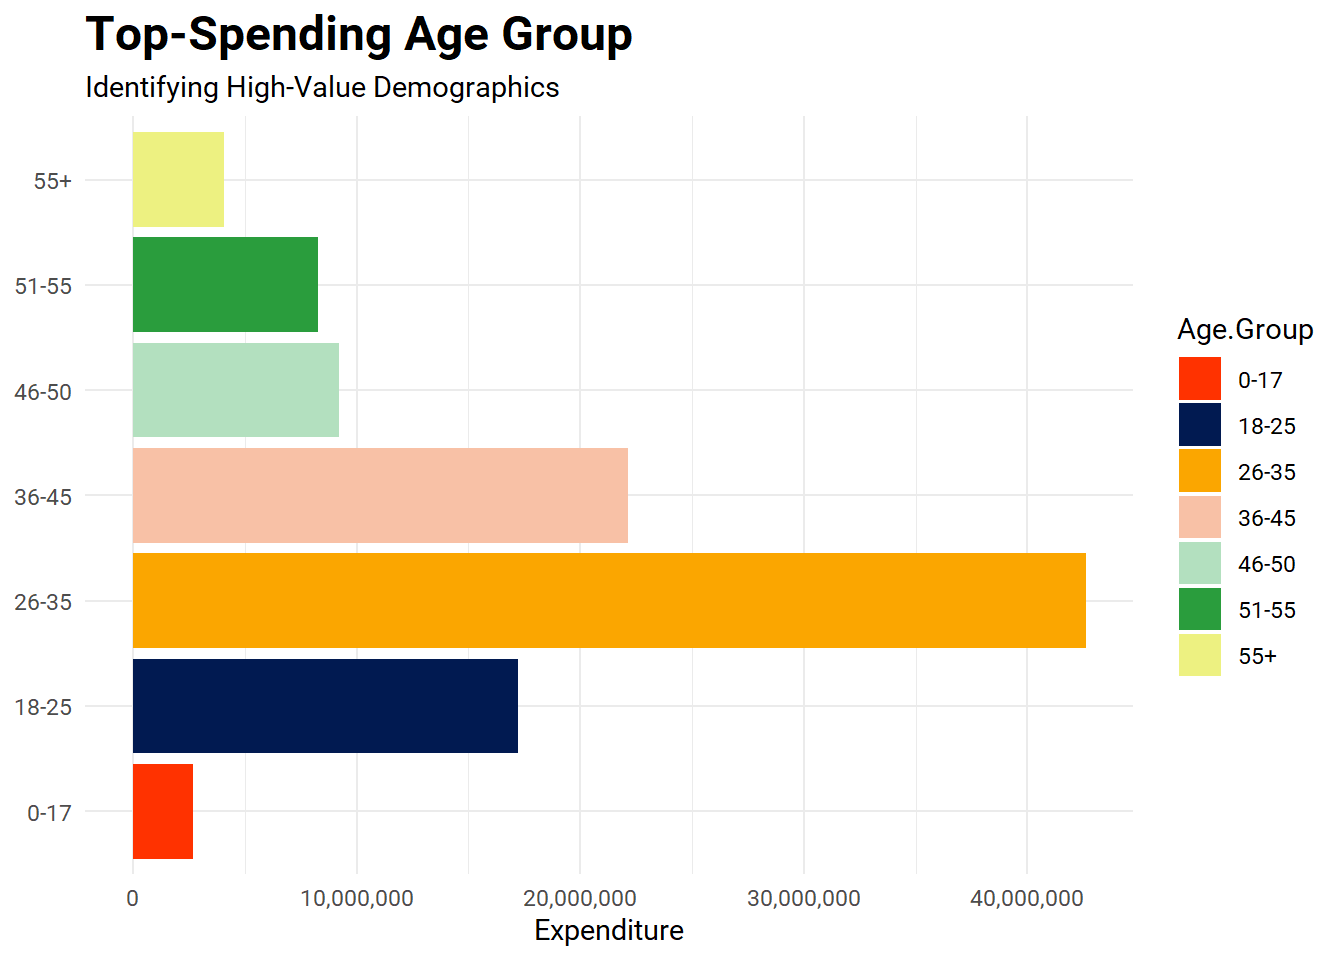
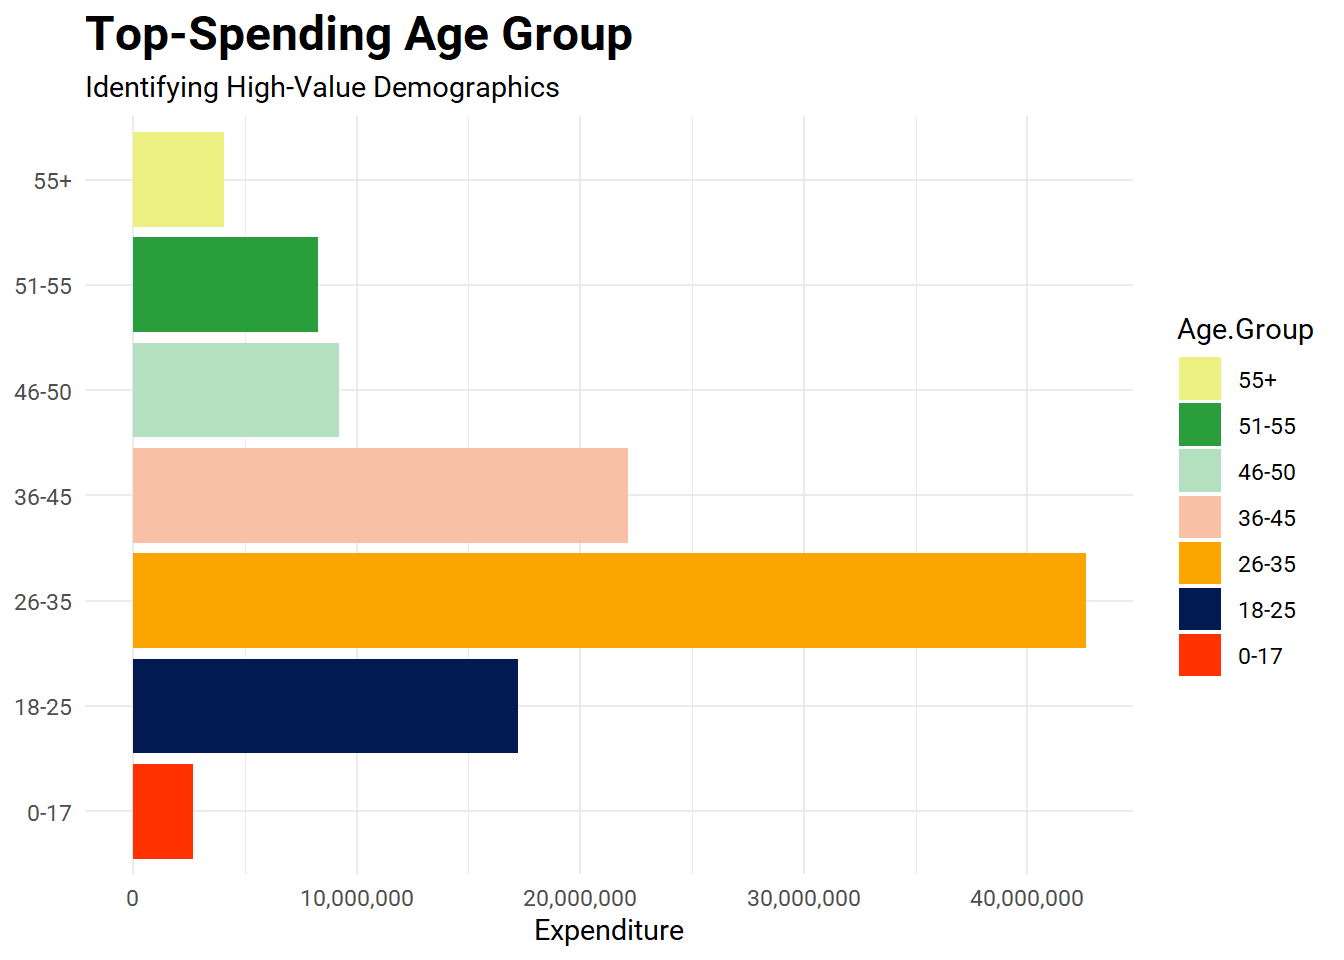
fixed legend

Changed region(s): [[0.875, 0.5625, 0.9688, 0.7188], [0.875, 0.375, 0.9688, 0.5312]]

diff --git a/public/portfolio/diwali-sales/diwali_sales/index.html b/public/portfolio/diwali-sales/diwali_sales/index.html
@@ -48,7 +48,7 @@ Age Group Spending:" />
   <meta itemprop="description" content="Exploring Diwali Sales Data Context The Diwali Sales dataset, featured in the TidyTuesday project for the week of November 14, 2023, provides a comprehensive look at retail sales during the Diwali festival in India. It offers a detailed snapshot of consumer behavior during one of the most significant festive periods in India. Key Business Questions Which age group spends the most during Diwali? How does expenditure vary across genders within each age group? What are the common occupations of individuals in the highest spending age group? Which states have the highest spending, and how does this vary by gender? How does marital status influence spending patterns across different states and genders? Insights and Trends Age Group Spending:">
   <meta itemprop="datePublished" content="2024-10-29T00:00:00+00:00">
   <meta itemprop="dateModified" content="2024-11-04T09:46:21+00:00">
-  <meta itemprop="wordCount" content="1248">
+  <meta itemprop="wordCount" content="1278">
   <meta itemprop="image" content="http://localhost:4321/portfolio/Diwali%20Sales/diwali_sales_files/figure-html/unnamed-chunk-4-1.png">
   <meta itemprop="keywords" content="Markdown,Data Analysis,R">
   <meta name="twitter:card" content="summary_large_image">
@@ -374,16 +374,18 @@ Age Group Spending:" />
 </ul>
 </li>
 </ol>
-</br>
-</br>
+<br/>
+<br/>
 <hr>
-</br>
+<br/>
 <div class="hextra-code-block hx-relative hx-mt-6 first:hx-mt-0 hx-group/code">
   
 
 <div><div class="highlight"><pre tabindex="0" class="chroma"><code class="language-r" data-lang="r"><span class="line"><span class="cl"><span class="nf">library</span><span class="p">(</span><span class="n">extrafont</span><span class="p">)</span>
 </span></span><span class="line"><span class="cl"><span class="nf">library</span><span class="p">(</span><span class="n">tidyverse</span><span class="p">)</span>
-</span></span><span class="line"><span class="cl"><span class="nf">library</span><span class="p">(</span><span class="n">scales</span><span class="p">)</span> </span></span></code></pre></div></div><div class="hextra-code-copy-btn-container hx-opacity-0 hx-transition group-hover/code:hx-opacity-100 hx-flex hx-gap-1 hx-absolute hx-m-[11px] hx-right-0 hx-top-0">
+</span></span><span class="line"><span class="cl"><span class="nf">library</span><span class="p">(</span><span class="n">scales</span><span class="p">)</span> 
+</span></span><span class="line"><span class="cl">
+</span></span><span class="line"><span class="cl"><span class="nf">loadfonts</span><span class="p">(</span><span class="n">device</span> <span class="o">=</span> <span class="s">&#34;win&#34;</span><span class="p">)</span></span></span></code></pre></div></div><div class="hextra-code-copy-btn-container hx-opacity-0 hx-transition group-hover/code:hx-opacity-100 hx-flex hx-gap-1 hx-absolute hx-m-[11px] hx-right-0 hx-top-0">
   <button
     class="hextra-code-copy-btn hx-group/copybtn hx-transition-all active:hx-opacity-50 hx-bg-primary-700/5 hx-border hx-border-black/5 hx-text-gray-600 hover:hx-text-gray-900 hx-rounded-md hx-p-1.5 dark:hx-bg-primary-300/10 dark:hx-border-white/10 dark:hx-text-gray-400 dark:hover:hx-text-gray-50"
     title="Copy code"
@@ -398,9 +400,7 @@ Age Group Spending:" />
 <div class="hextra-code-block hx-relative hx-mt-6 first:hx-mt-0 hx-group/code">
   
 
-<div><div class="highlight"><pre tabindex="0" class="chroma"><code class="language-r" data-lang="r"><span class="line"><span class="cl"><span class="nf">loadfonts</span><span class="p">(</span><span class="n">device</span> <span class="o">=</span> <span class="s">&#34;win&#34;</span><span class="p">)</span>
-</span></span><span class="line"><span class="cl">
-</span></span><span class="line"><span class="cl"><span class="nf">theme_set</span><span class="p">(</span>
+<div><div class="highlight"><pre tabindex="0" class="chroma"><code class="language-r" data-lang="r"><span class="line"><span class="cl"><span class="nf">theme_set</span><span class="p">(</span>
 </span></span><span class="line"><span class="cl">    <span class="nf">theme_minimal</span><span class="p">()</span> <span class="o">+</span>
 </span></span><span class="line"><span class="cl">    <span class="nf">theme</span><span class="p">(</span><span class="n">text</span> <span class="o">=</span> <span class="nf">element_text</span><span class="p">(</span><span class="n">family</span> <span class="o">=</span> <span class="s">&#34;Roboto&#34;</span><span class="p">))</span>
 </span></span><span class="line"><span class="cl">    <span class="p">)</span>
@@ -550,6 +550,7 @@ Age Group Spending:" />
 </span></span><span class="line"><span class="cl">            <span class="p">)</span> <span class="o">+</span>
 </span></span><span class="line"><span class="cl">    <span class="nf">theme</span><span class="p">(</span><span class="n">plot.title</span> <span class="o">=</span> <span class="nf">element_text</span><span class="p">(</span><span class="n">size</span> <span class="o">=</span> <span class="m">18</span><span class="p">,</span> <span class="n">face</span> <span class="o">=</span> <span class="s">&#34;bold&#34;</span><span class="p">))</span> <span class="o">+</span>
 </span></span><span class="line"><span class="cl">    <span class="nf">scale_y_continuous</span><span class="p">(</span><span class="n">labels</span> <span class="o">=</span> <span class="n">comma</span><span class="p">)</span> <span class="o">+</span>
+</span></span><span class="line"><span class="cl">    <span class="nf">guides</span><span class="p">(</span><span class="n">fill</span> <span class="o">=</span> <span class="nf">guide_legend</span><span class="p">(</span><span class="n">reverse</span> <span class="o">=</span> <span class="kc">TRUE</span><span class="p">))</span> <span class="o">+</span>
 </span></span><span class="line"><span class="cl">    <span class="nf">coord_flip</span><span class="p">()</span></span></span></code></pre></div></div><div class="hextra-code-copy-btn-container hx-opacity-0 hx-transition group-hover/code:hx-opacity-100 hx-flex hx-gap-1 hx-absolute hx-m-[11px] hx-right-0 hx-top-0">
   <button
     class="hextra-code-copy-btn hx-group/copybtn hx-transition-all active:hx-opacity-50 hx-bg-primary-700/5 hx-border hx-border-black/5 hx-text-gray-600 hover:hx-text-gray-900 hx-rounded-md hx-p-1.5 dark:hx-bg-primary-300/10 dark:hx-border-white/10 dark:hx-text-gray-400 dark:hover:hx-text-gray-50"
@@ -585,6 +586,7 @@ Age Group Spending:" />
 </span></span><span class="line"><span class="cl">            <span class="p">)</span> <span class="o">+</span>
 </span></span><span class="line"><span class="cl">    <span class="nf">theme</span><span class="p">(</span><span class="n">plot.title</span> <span class="o">=</span> <span class="nf">element_text</span><span class="p">(</span><span class="n">size</span> <span class="o">=</span> <span class="m">18</span><span class="p">,</span> <span class="n">face</span> <span class="o">=</span> <span class="s">&#34;bold&#34;</span><span class="p">))</span> <span class="o">+</span>
 </span></span><span class="line"><span class="cl">    <span class="nf">scale_y_continuous</span><span class="p">(</span><span class="n">labels</span> <span class="o">=</span> <span class="n">comma</span><span class="p">)</span> <span class="o">+</span>
+</span></span><span class="line"><span class="cl">    <span class="nf">guides</span><span class="p">(</span><span class="n">fill</span> <span class="o">=</span> <span class="nf">guide_legend</span><span class="p">(</span><span class="n">reverse</span> <span class="o">=</span> <span class="kc">TRUE</span><span class="p">))</span> <span class="o">+</span>
 </span></span><span class="line"><span class="cl">    <span class="nf">coord_flip</span><span class="p">()</span></span></span></code></pre></div></div><div class="hextra-code-copy-btn-container hx-opacity-0 hx-transition group-hover/code:hx-opacity-100 hx-flex hx-gap-1 hx-absolute hx-m-[11px] hx-right-0 hx-top-0">
   <button
     class="hextra-code-copy-btn hx-group/copybtn hx-transition-all active:hx-opacity-50 hx-bg-primary-700/5 hx-border hx-border-black/5 hx-text-gray-600 hover:hx-text-gray-900 hx-rounded-md hx-p-1.5 dark:hx-bg-primary-300/10 dark:hx-border-white/10 dark:hx-text-gray-400 dark:hover:hx-text-gray-50"
@@ -620,6 +622,7 @@ Age Group Spending:" />
 </span></span><span class="line"><span class="cl">            <span class="p">)</span> <span class="o">+</span>
 </span></span><span class="line"><span class="cl">    <span class="nf">theme</span><span class="p">(</span><span class="n">plot.title</span> <span class="o">=</span> <span class="nf">element_text</span><span class="p">(</span><span class="n">size</span> <span class="o">=</span> <span class="m">18</span><span class="p">,</span> <span class="n">face</span> <span class="o">=</span> <span class="s">&#34;bold&#34;</span><span class="p">))</span> <span class="o">+</span>
 </span></span><span class="line"><span class="cl">    <span class="nf">scale_y_continuous</span><span class="p">(</span><span class="n">labels</span> <span class="o">=</span> <span class="n">comma</span><span class="p">)</span> <span class="o">+</span>
+</span></span><span class="line"><span class="cl">    <span class="nf">guides</span><span class="p">(</span><span class="n">fill</span> <span class="o">=</span> <span class="nf">guide_legend</span><span class="p">(</span><span class="n">reverse</span> <span class="o">=</span> <span class="kc">TRUE</span><span class="p">))</span> <span class="o">+</span>
 </span></span><span class="line"><span class="cl">    <span class="nf">coord_flip</span><span class="p">()</span></span></span></code></pre></div></div><div class="hextra-code-copy-btn-container hx-opacity-0 hx-transition group-hover/code:hx-opacity-100 hx-flex hx-gap-1 hx-absolute hx-m-[11px] hx-right-0 hx-top-0">
   <button
     class="hextra-code-copy-btn hx-group/copybtn hx-transition-all active:hx-opacity-50 hx-bg-primary-700/5 hx-border hx-border-black/5 hx-text-gray-600 hover:hx-text-gray-900 hx-rounded-md hx-p-1.5 dark:hx-bg-primary-300/10 dark:hx-border-white/10 dark:hx-text-gray-400 dark:hover:hx-text-gray-50"
@@ -655,6 +658,7 @@ Age Group Spending:" />
 </span></span><span class="line"><span class="cl">            <span class="p">)</span> <span class="o">+</span>
 </span></span><span class="line"><span class="cl">    <span class="nf">theme</span><span class="p">(</span><span class="n">plot.title</span> <span class="o">=</span> <span class="nf">element_text</span><span class="p">(</span><span class="n">size</span> <span class="o">=</span> <span class="m">18</span><span class="p">,</span> <span class="n">face</span> <span class="o">=</span> <span class="s">&#34;bold&#34;</span><span class="p">))</span> <span class="o">+</span>
 </span></span><span class="line"><span class="cl">    <span class="nf">scale_y_continuous</span><span class="p">(</span><span class="n">labels</span> <span class="o">=</span> <span class="n">comma</span><span class="p">)</span> <span class="o">+</span>
+</span></span><span class="line"><span class="cl">    <span class="nf">guides</span><span class="p">(</span><span class="n">fill</span> <span class="o">=</span> <span class="nf">guide_legend</span><span class="p">(</span><span class="n">reverse</span> <span class="o">=</span> <span class="kc">TRUE</span><span class="p">))</span> <span class="o">+</span>
 </span></span><span class="line"><span class="cl">    <span class="nf">coord_flip</span><span class="p">()</span></span></span></code></pre></div></div><div class="hextra-code-copy-btn-container hx-opacity-0 hx-transition group-hover/code:hx-opacity-100 hx-flex hx-gap-1 hx-absolute hx-m-[11px] hx-right-0 hx-top-0">
   <button
     class="hextra-code-copy-btn hx-group/copybtn hx-transition-all active:hx-opacity-50 hx-bg-primary-700/5 hx-border hx-border-black/5 hx-text-gray-600 hover:hx-text-gray-900 hx-rounded-md hx-p-1.5 dark:hx-bg-primary-300/10 dark:hx-border-white/10 dark:hx-text-gray-400 dark:hover:hx-text-gray-50"
@@ -695,6 +699,7 @@ Age Group Spending:" />
 </span></span><span class="line"><span class="cl">        <span class="n">y</span> <span class="o">=</span> <span class="s">&#34;Expenditure&#34;</span>
 </span></span><span class="line"><span class="cl">            <span class="p">)</span> <span class="o">+</span>
 </span></span><span class="line"><span class="cl">    <span class="nf">theme</span><span class="p">(</span><span class="n">plot.title</span> <span class="o">=</span> <span class="nf">element_text</span><span class="p">(</span><span class="n">size</span> <span class="o">=</span> <span class="m">18</span><span class="p">,</span> <span class="n">face</span> <span class="o">=</span> <span class="s">&#34;bold&#34;</span><span class="p">))</span> <span class="o">+</span>
+</span></span><span class="line"><span class="cl">    <span class="nf">guides</span><span class="p">(</span><span class="n">fill</span> <span class="o">=</span> <span class="nf">guide_legend</span><span class="p">(</span><span class="n">reverse</span> <span class="o">=</span> <span class="kc">TRUE</span><span class="p">))</span> <span class="o">+</span>
 </span></span><span class="line"><span class="cl">    <span class="nf">scale_y_continuous</span><span class="p">(</span><span class="n">labels</span> <span class="o">=</span> <span class="n">comma</span><span class="p">)</span></span></span></code></pre></div></div><div class="hextra-code-copy-btn-container hx-opacity-0 hx-transition group-hover/code:hx-opacity-100 hx-flex hx-gap-1 hx-absolute hx-m-[11px] hx-right-0 hx-top-0">
   <button
     class="hextra-code-copy-btn hx-group/copybtn hx-transition-all active:hx-opacity-50 hx-bg-primary-700/5 hx-border hx-border-black/5 hx-text-gray-600 hover:hx-text-gray-900 hx-rounded-md hx-p-1.5 dark:hx-bg-primary-300/10 dark:hx-border-white/10 dark:hx-text-gray-400 dark:hover:hx-text-gray-50"

diff --git a/content/portfolio/Diwali Sales/diwali_sales.md b/content/portfolio/Diwali Sales/diwali_sales.md
@@ -59,23 +59,22 @@ tags:
     - Use insights from occupational data to engage with customers through personalized communication. Offer exclusive deals and loyalty programs for professionals.
     
 
-</br>
-</br>
+<br/>
+<br/>
 
 ---
 
-</br>
-
+<br/>
 
 ``` r
 library(extrafont)
 library(tidyverse)
 library(scales) 
+
+loadfonts(device = "win")
 ```
 
 ``` r
-loadfonts(device = "win")
-
 theme_set(
     theme_minimal() +
     theme(text = element_text(family = "Roboto"))
@@ -170,6 +169,7 @@ diwali |>
             ) +
     theme(plot.title = element_text(size = 18, face = "bold")) +
     scale_y_continuous(labels = comma) +
+    guides(fill = guide_legend(reverse = TRUE)) +
     coord_flip()
 ```
 
@@ -196,6 +196,7 @@ diwali |>
             ) +
     theme(plot.title = element_text(size = 18, face = "bold")) +
     scale_y_continuous(labels = comma) +
+    guides(fill = guide_legend(reverse = TRUE)) +
     coord_flip()
 ```
 
@@ -222,6 +223,7 @@ diwali |>
             ) +
     theme(plot.title = element_text(size = 18, face = "bold")) +
     scale_y_continuous(labels = comma) +
+    guides(fill = guide_legend(reverse = TRUE)) +
     coord_flip()
 ```
 
@@ -248,6 +250,7 @@ diwali |>
             ) +
     theme(plot.title = element_text(size = 18, face = "bold")) +
     scale_y_continuous(labels = comma) +
+    guides(fill = guide_legend(reverse = TRUE)) +
     coord_flip()
 ```
 
@@ -280,6 +283,7 @@ diwali |>
         y = "Expenditure"
             ) +
     theme(plot.title = element_text(size = 18, face = "bold")) +
+    guides(fill = guide_legend(reverse = TRUE)) +
     scale_y_continuous(labels = comma)
 ```
 
